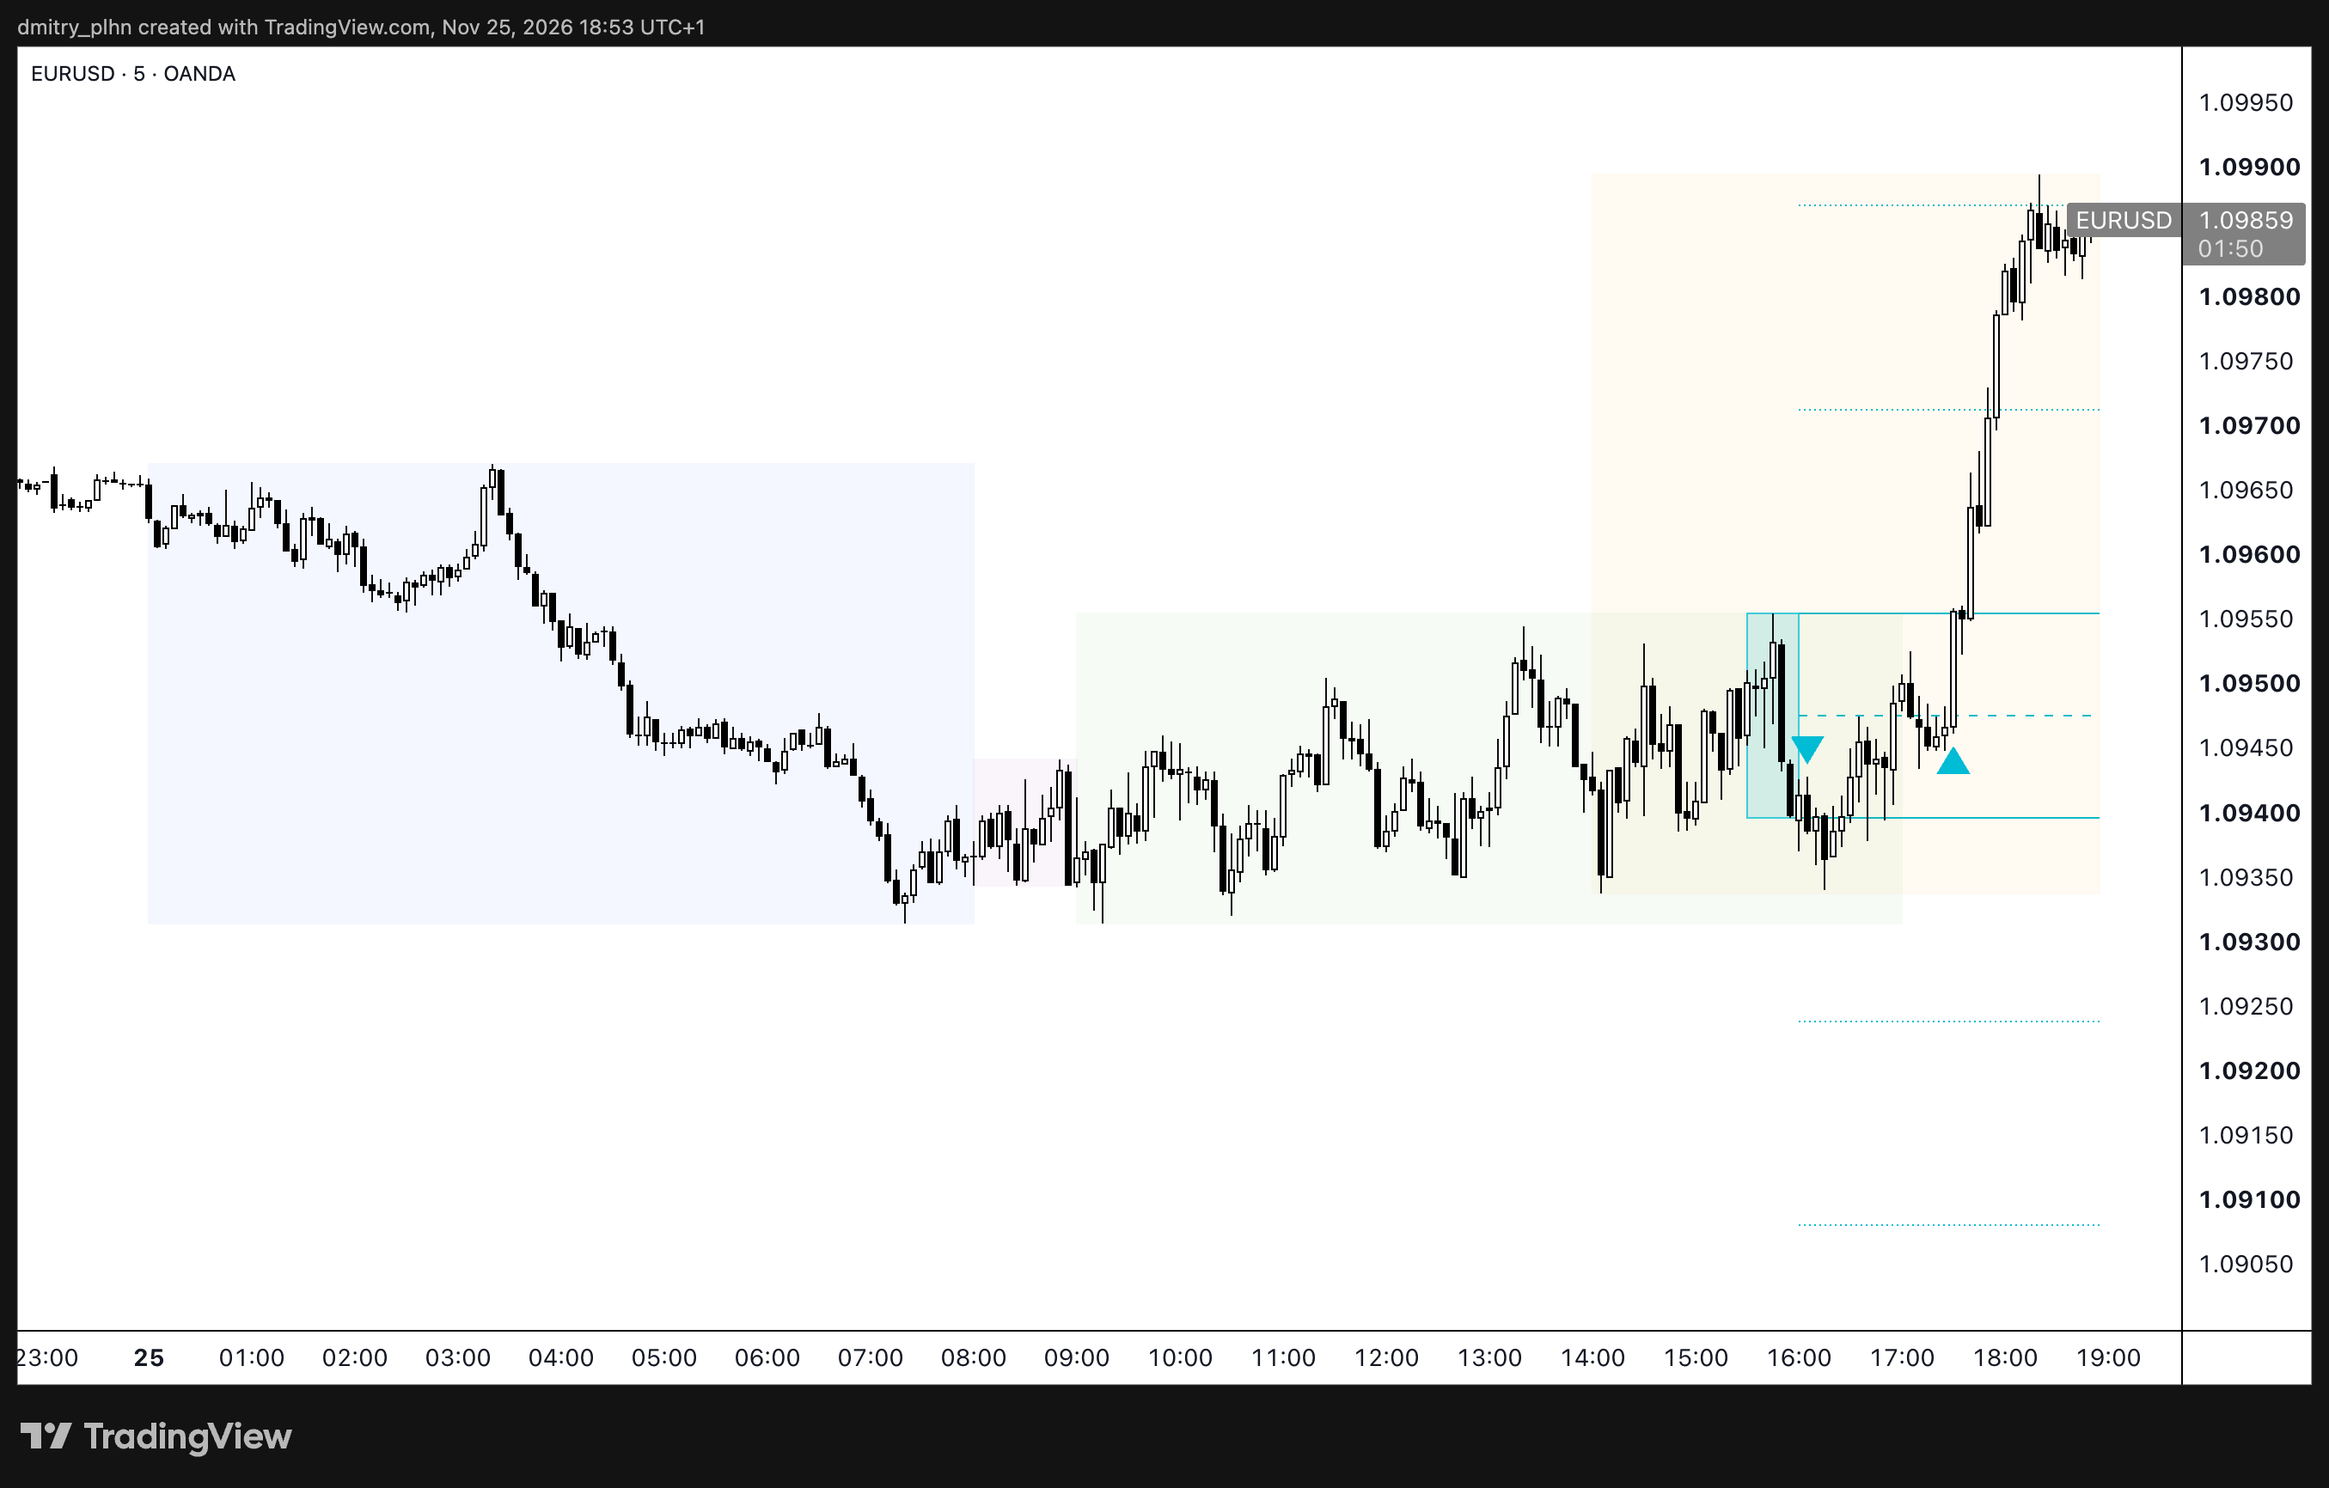
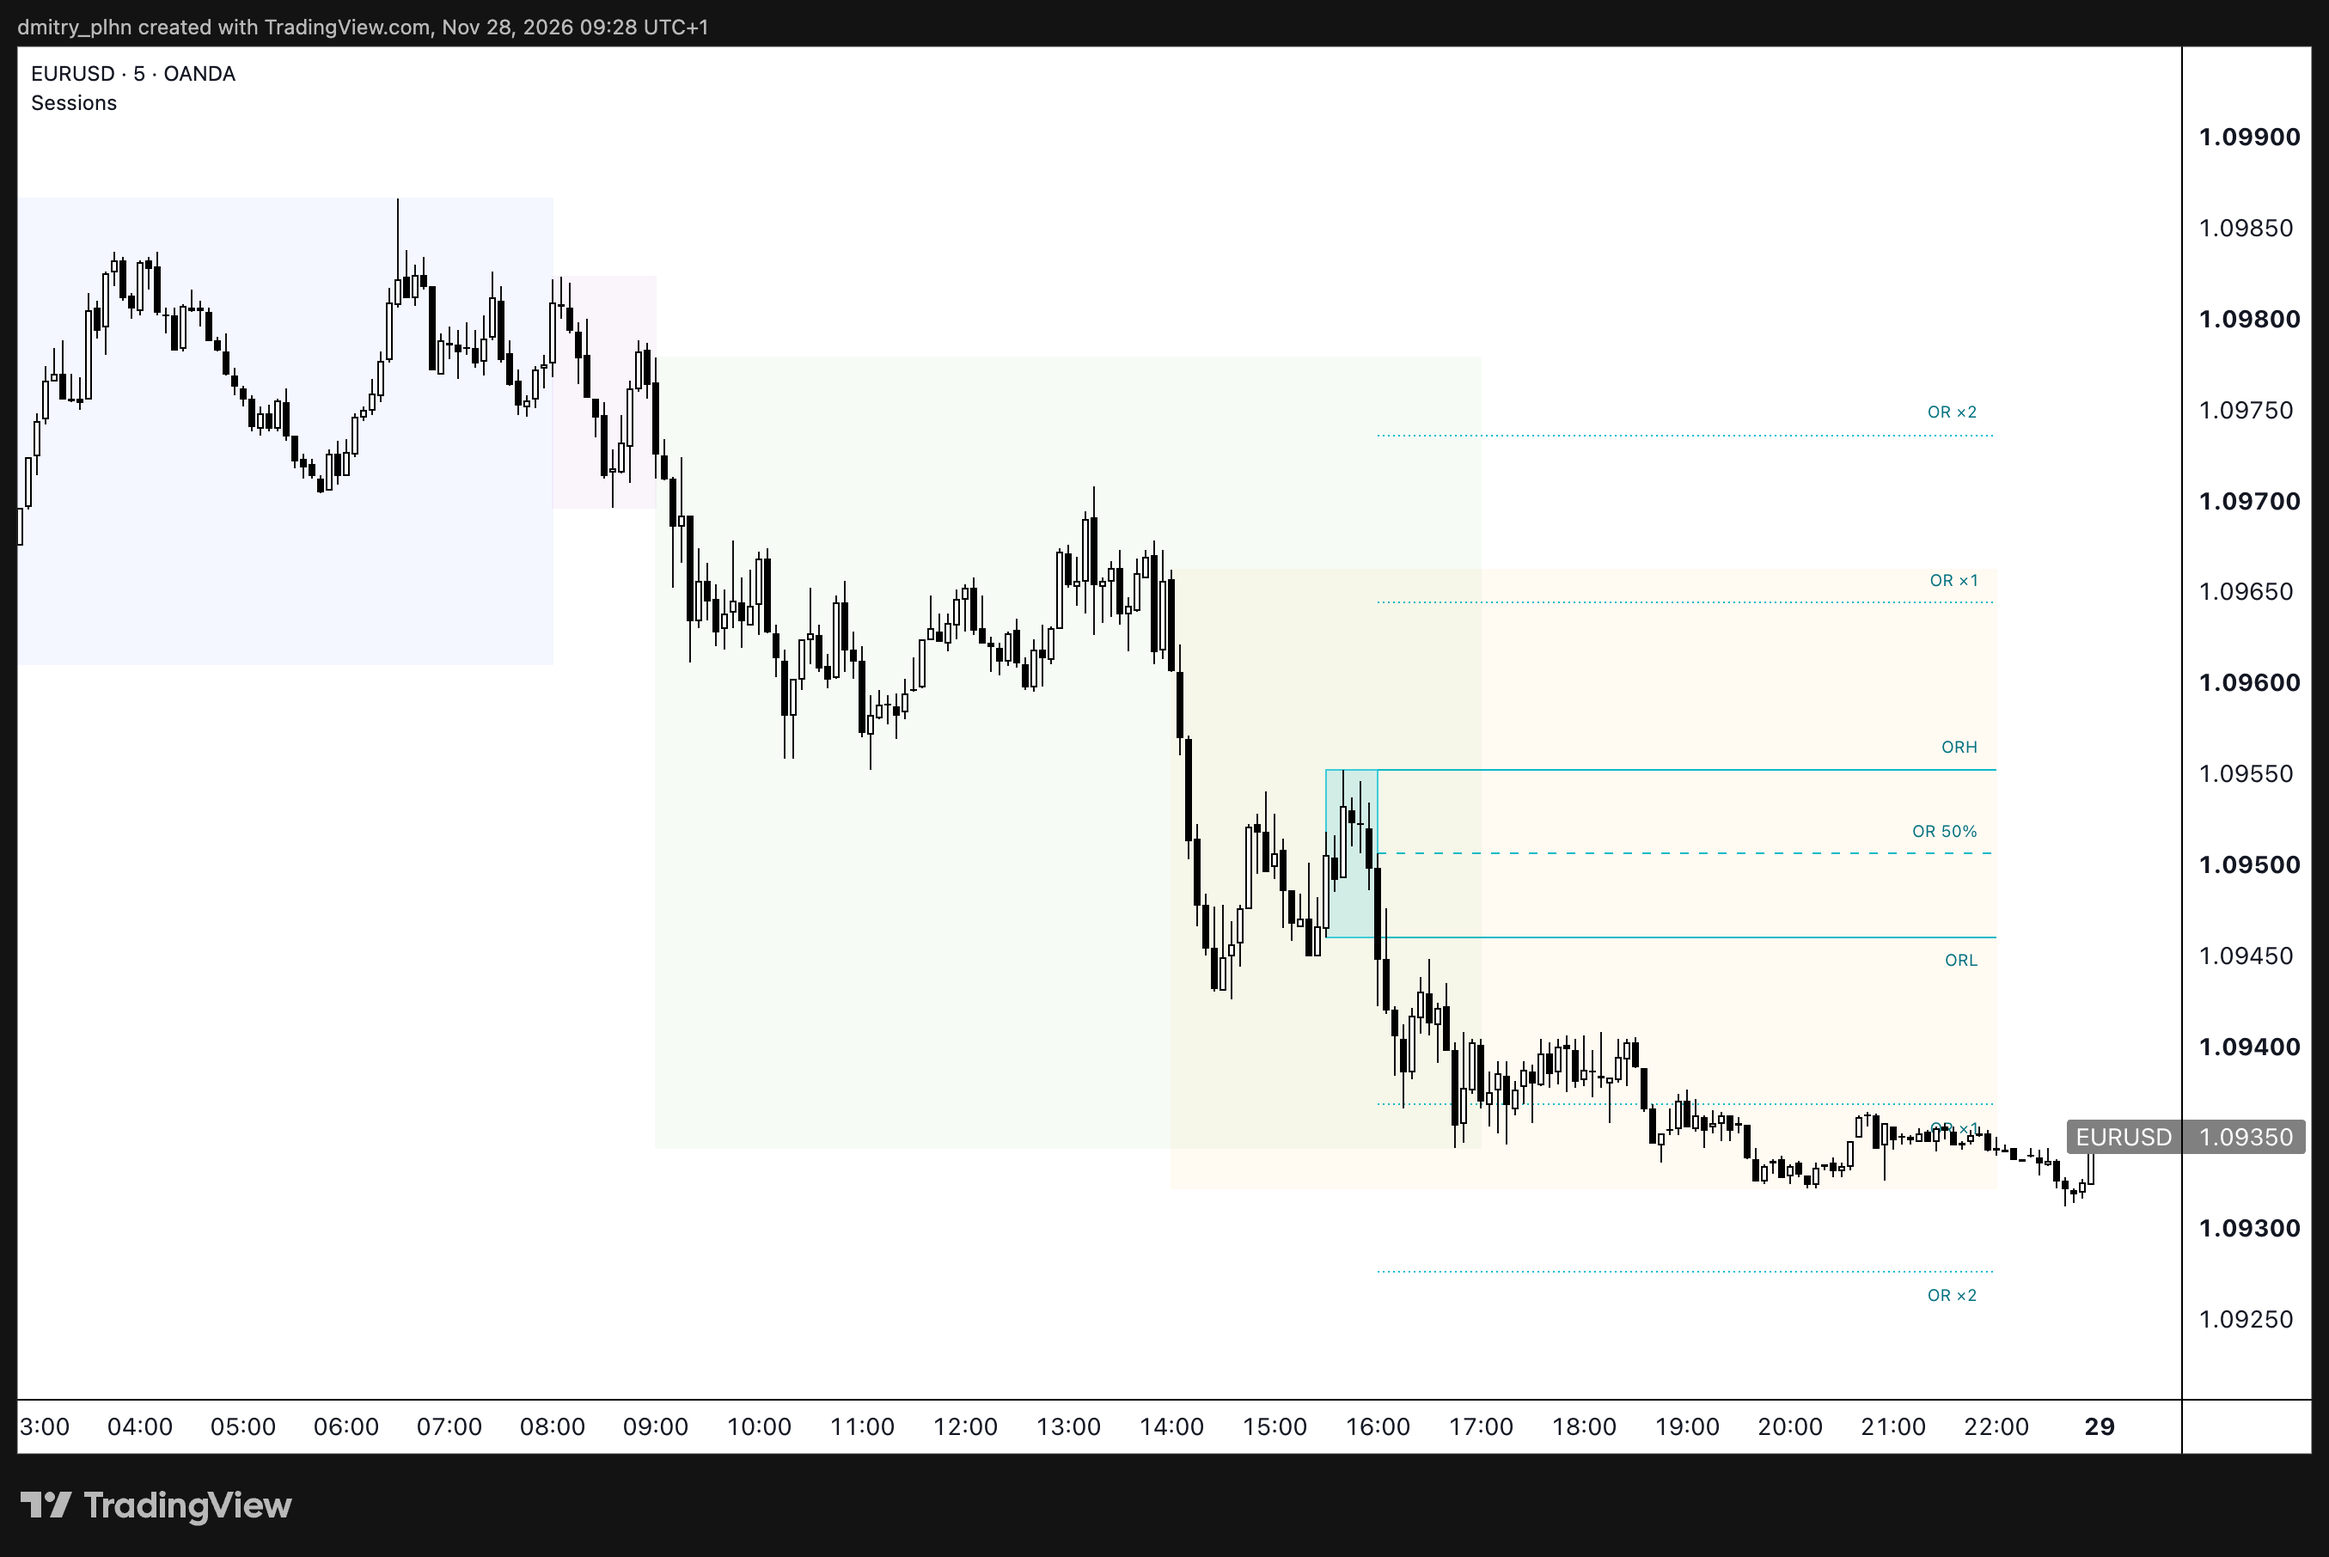
🚀 chore(release): v4.5.0

diff --git a/README.fr.md b/README.fr.md
@@ -6,7 +6,7 @@
 
 [![Pine Script](https://img.shields.io/badge/Pine%20Script-v6-2962FF)](https://www.tradingview.com/pine-script-docs/)
 [![On TradingView](https://img.shields.io/badge/on-TradingView-131722?logo=tradingview&logoColor=white)](https://www.tradingview.com/script/aK5XyDPb-Sessions-Killzones-Opening-Range-and-Dashboard-with-Auto-DST/)
-[![Version](https://img.shields.io/badge/version-4.4.0-blue)](CHANGELOG.md)
+[![Version](https://img.shields.io/badge/version-4.5.0-blue)](CHANGELOG.md)
 [![License](https://img.shields.io/badge/license-MPL--2.0-brightgreen)](LICENSE)
 [![CI](https://github.com/DmytroPalahin/sessions-indicator/actions/workflows/ci.yml/badge.svg)](https://github.com/DmytroPalahin/sessions-indicator/actions/workflows/ci.yml)
 [![Conventional Commits](https://img.shields.io/badge/Conventional%20Commits-1.0.0-FE5196?logo=conventionalcommits&logoColor=white)](https://www.conventionalcommits.org/)
@@ -75,9 +75,9 @@ Chaque image ci-dessous montre le même indicateur avec quelques cases cochées.
 <sub>⑤ <i>Show killzones</i> · ⑥ <i>Previous day high / low</i> · ⑦ <i>Day open</i>, <i>Midnight open</i></sub>
 </td>
 <td width="50%" valign="top">
-<a href="docs/images/opening-range.png"><img src="docs/images/opening-range.png" alt="Boîte de l'opening range avec lignes prolongées, médiane, deux projections et marqueurs de cassure"></a>
+<a href="docs/images/opening-range.png"><img src="docs/images/opening-range.png" alt="Boîte de l'opening range avec lignes prolongées, leurs étiquettes, médiane et deux projections"></a>
 <b>Opening range</b><br>
-<sub>⑧ <i>Show opening range</i>, <i>Breakout markers</i>, <i>Projection 2 ×</i> = <code>2</code></sub>
+<sub>⑧ <i>Show opening range</i>, <i>Projection 2 ×</i> = <code>2</code></sub>
 </td>
 </tr>
 <tr>
@@ -184,7 +184,7 @@ surprenne.
 
 ## État du projet
 
-La version 4.4.0 est la version actuelle, celle qui est publiée sur TradingView. Elle compile et fonctionne sans
+La version 4.5.0 est la version actuelle, celle qui est publiée sur TradingView. Elle compile et fonctionne sans
 erreur ni avertissement, et elle a été exécutée sur des graphiques forex, crypto, futures et actions, de 30 secondes
 au journalier. Le journal de vérification de [docs/TESTING.md](docs/TESTING.md) indique ce qui a été vérifié et ce
 qui reste ouvert.

diff --git a/README.md b/README.md
@@ -6,7 +6,7 @@
 
 [![Pine Script](https://img.shields.io/badge/Pine%20Script-v6-2962FF)](https://www.tradingview.com/pine-script-docs/)
 [![On TradingView](https://img.shields.io/badge/on-TradingView-131722?logo=tradingview&logoColor=white)](https://www.tradingview.com/script/aK5XyDPb-Sessions-Killzones-Opening-Range-and-Dashboard-with-Auto-DST/)
-[![Version](https://img.shields.io/badge/version-4.4.0-blue)](CHANGELOG.md)
+[![Version](https://img.shields.io/badge/version-4.5.0-blue)](CHANGELOG.md)
 [![License](https://img.shields.io/badge/license-MPL--2.0-brightgreen)](LICENSE)
 [![CI](https://github.com/DmytroPalahin/sessions-indicator/actions/workflows/ci.yml/badge.svg)](https://github.com/DmytroPalahin/sessions-indicator/actions/workflows/ci.yml)
 [![Conventional Commits](https://img.shields.io/badge/Conventional%20Commits-1.0.0-FE5196?logo=conventionalcommits&logoColor=white)](https://www.conventionalcommits.org/)
@@ -73,9 +73,9 @@ Every picture below is the same indicator with a few checkboxes switched on. The
 <sub>⑤ <i>Show killzones</i> · ⑥ <i>Previous day high / low</i> · ⑦ <i>Day open</i>, <i>Midnight open</i></sub>
 </td>
 <td width="50%" valign="top">
-<a href="docs/images/opening-range.png"><img src="docs/images/opening-range.png" alt="Opening range box with extended lines, midline, two projections and breakout markers"></a>
+<a href="docs/images/opening-range.png"><img src="docs/images/opening-range.png" alt="Opening range box with extended lines, their labels, midline and two projections"></a>
 <b>Opening range</b><br>
-<sub>⑧ <i>Show opening range</i>, <i>Breakout markers</i>, <i>Projection 2 ×</i> = <code>2</code></sub>
+<sub>⑧ <i>Show opening range</i>, <i>Projection 2 ×</i> = <code>2</code></sub>
 </td>
 </tr>
 <tr>
@@ -173,7 +173,7 @@ These come from how Pine Script and TradingView work. They are listed so that no
 
 ## Project status
 
-Version 4.4.0 is the current release and the version published on TradingView. It compiles and runs with no errors
+Version 4.5.0 is the current release and the version published on TradingView. It compiles and runs with no errors
 and no warnings, and it has been run on forex, crypto, futures and stock charts from 30 seconds to daily. The
 verification log in [docs/TESTING.md](docs/TESTING.md) lists what has been checked and what is still open.
 

diff --git a/docs/SETTINGS.md b/docs/SETTINGS.md
@@ -171,9 +171,9 @@ balance of New York is a common pair.
 | Breakout markers | off | A triangle on the first bar that closes outside the range, once per side: under the bar for a close above the range, over the bar for a close below it. A breakout is looked for while the lines extend, that is for *Extend for, hours* after the window closes. |
 | Size label | off | Prints the size of the range under its box and, once the window has closed, its share of the average of the last ranges: `OR`, `12.0 p`, `85% of avg`, one under the other. |
 
-![Opening range with projections and breakout markers](images/opening-range.png)
+![Opening range with its line labels and two projections](images/opening-range.png)
 
-*⑧ Show opening range with Breakout markers and Projection 2 × = `2`, EURUSD on 5 minutes.*
+*⑧ Show opening range with Projection 2 × = `2`, EURUSD on 5 minutes.*
 
 ### Initial balance
 

diff --git a/docs/PUBLISHING.md b/docs/PUBLISHING.md
@@ -10,7 +10,7 @@ How a release goes from this repository to the TradingView community library.
 | Title | Sessions, Killzones, Opening Range and Dashboard with Auto DST |
 | Author | [dmitry_plhn](https://www.tradingview.com/u/dmitry_plhn/) |
 | Access | Public, open-source: everyone can add it to a chart and read the code on the page. It is the code of this repository. |
-| Code | Version 4.4.0 — the file at the tag `v4.4.0` |
+| Code | Version 4.5.0 — the file at the tag `v4.5.0` |
 | First published | 2026-11-27, from version 4.4.0 |
 | Categories | Multi-timeframe · Pivot points and levels |
 | Tags | `sessions`, `killzones`, `forex` |

diff --git a/CHANGELOG.md b/CHANGELOG.md
@@ -13,6 +13,10 @@ How versions are counted for an indicator:
 
 ## [Unreleased]
 
+## [4.5.0] - 2026-11-28
+
+The initial balance of Frankfurt and of New York, and labels on the lines of the opening range.
+
 ### Added
 
 - **Initial balance.** Two more ranges next to the opening range, in *⑧ Opening range and initial balance*, off by
